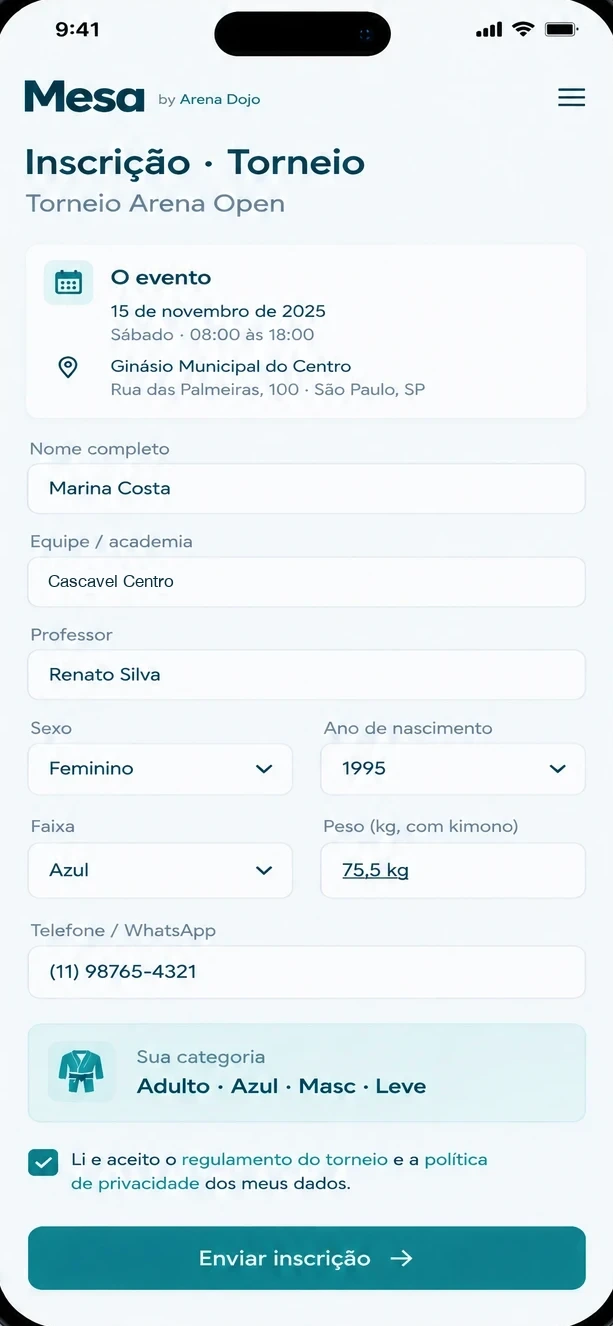
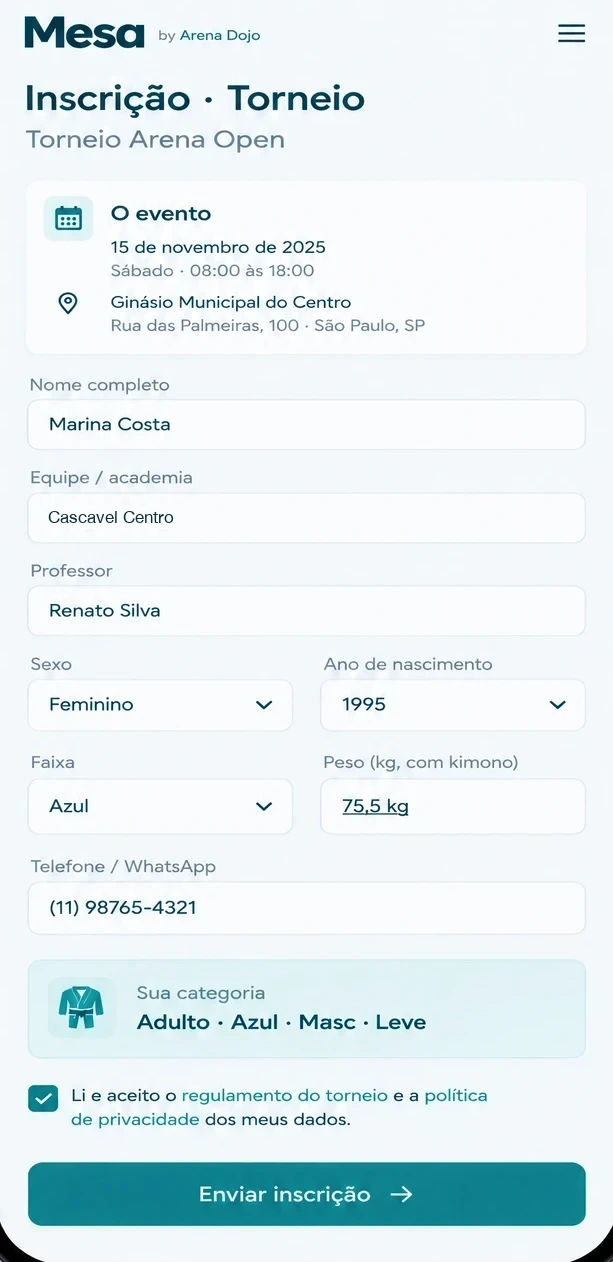
Corrige texto do case Mesa e falha no mockup mobile
O texto do Mesa descrevia "pedidos" e "vender", como se fosse um
produto de e-commerce; reescrito para explicar o que o Mesa
realmente e: gestao de atletas, categorias, chaveamento e fila de
lutas de um torneio de jiu-jitsu.

Remove a numeracao (01, 02...) dos cartoes de case, deixando so o
tipo do projeto.

O mockup mobile do Mesa tinha uma barra de status falsa (relogio,
sinal, bateria) desenhada dentro do proprio print, que conflitava
com o notch real da moldura do iPhone sobreposta por cima, formando
uma mancha preta no topo. Recortada a barra falsa, igual aos outros
mockups que ja comecam direto no conteudo real do app.

diff --git a/client/src/pages/Home.tsx b/client/src/pages/Home.tsx
@@ -44,7 +44,7 @@ const featuredCases = [
   { key: "horikawa", index: "01", type: "case · site para academia", title: "Horikawa Dojo", headline: "Um site que traduz disciplina em caminho.", text: "Uma presença digital para apresentar modalidades, turmas, equipe e a primeira visita sem intimidar quem está começando.", result: "clareza para quem chega · estrutura para quem evolui", href: "https://www.horikawadojo.com.br", domain: "horikawadojo.com.br" },
   { key: "mayla", index: "02", type: "case · site de estética", title: "Mayla Ferraz", headline: "Cuidado premium começa antes do agendamento.", text: "Uma experiência digital delicada para explicar protocolos, transmitir confiança e levar a pessoa certa para a conversa.", result: "acolhimento + personalização + agendamento", href: "https://www.maylaferraz.com.br", domain: "maylaferraz.com.br" },
   { key: "agro", index: "03", type: "case · edutec com IA", title: "AgroVanguard", headline: "Conhecimento aplicado para um setor que não para.", text: "Educação e tecnologia para aproximar conhecimento do agronegócio em uma experiência digital mais acessível.", result: "educação + tecnologia + agronegócio", href: "https://agrovanguard.com.br", domain: "agrovanguard.com.br" },
-  { key: "mesa", index: "04", type: "case · produto digital", title: "Mesa", headline: "Uma operação mais simples para quem precisa vender.", text: "Um produto para organizar pedidos, rotina e decisão em uma experiência direta.", result: "telas do produto · operação · clareza", href: "#contato", domain: "produto Mesa" },
+  { key: "mesa", index: "04", type: "case · gestão de torneios", title: "Mesa", headline: "Chaveamento e resultado ao vivo, sem planilha.", text: "Um sistema para organizar atletas, categorias, chaveamento e a fila de lutas de um torneio de jiu-jitsu em tempo real.", result: "atletas · categorias · chaveamento · placar ao vivo", href: "#contato", domain: "produto Mesa" },
   { key: "gestao", index: "05", type: "case · sistema de gestão", title: "Gestão para Mayla", headline: "A experiência premium também acontece nos bastidores.", text: "Um sistema para organizar atendimento, recorrência e visão da operação sem perder o cuidado da marca.", result: "sistema sob medida · visão · consistência", href: "#contato", domain: "SaaS interno · Mayla" },
 ];
 
@@ -137,7 +137,7 @@ export default function Home() {
           <div className="section-head cases-head"><div><div className="eyebrow"><span className="eyebrow-dot" /> casos selecionados</div><h2>Projetos que<br /><em>viraram experiência.</em></h2></div><p>Uma amostra do que já foi pensado e construído. Cada projeto começa com uma fricção concreta da operação.</p></div>
           <div className="commercial-case-grid">
             {featuredCases.map((item) => <article className={`commercial-case-card ${item.key}`} key={item.key}>
-              <div className="commercial-case-copy"><div className="case-kicker">{item.index} · {item.type}</div><h3>{item.title}</h3><h4>{item.headline}</h4><p>{item.text}</p><div className="case-result"><span className="result-mark"><Check size={14} /></span><div><span className="result-label">o que este projeto precisava resolver</span><strong>{item.result}</strong></div></div>{item.href.startsWith("#") ? <span className="case-pending-note">Apresentação visual em preparação</span> : <a className="text-link dark-link" href={item.href} target="_blank" rel="noreferrer">Visitar projeto <ArrowUpRight size={15} /></a>}</div>
+              <div className="commercial-case-copy"><div className="case-kicker">{item.type}</div><h3>{item.title}</h3><h4>{item.headline}</h4><p>{item.text}</p><div className="case-result"><span className="result-mark"><Check size={14} /></span><div><span className="result-label">o que este projeto precisava resolver</span><strong>{item.result}</strong></div></div>{item.href.startsWith("#") ? <span className="case-pending-note">Apresentação visual em preparação</span> : <a className="text-link dark-link" href={item.href} target="_blank" rel="noreferrer">Visitar projeto <ArrowUpRight size={15} /></a>}</div>
               <CaseDevices caseKey={item.key} title={item.title} />
             </article>)}
           </div>
